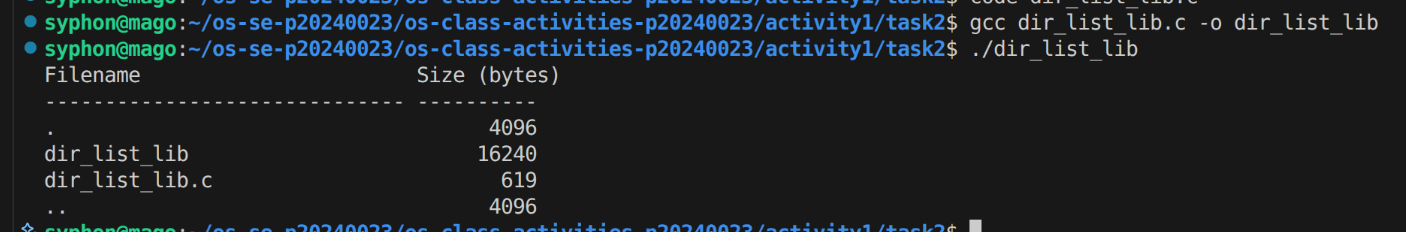
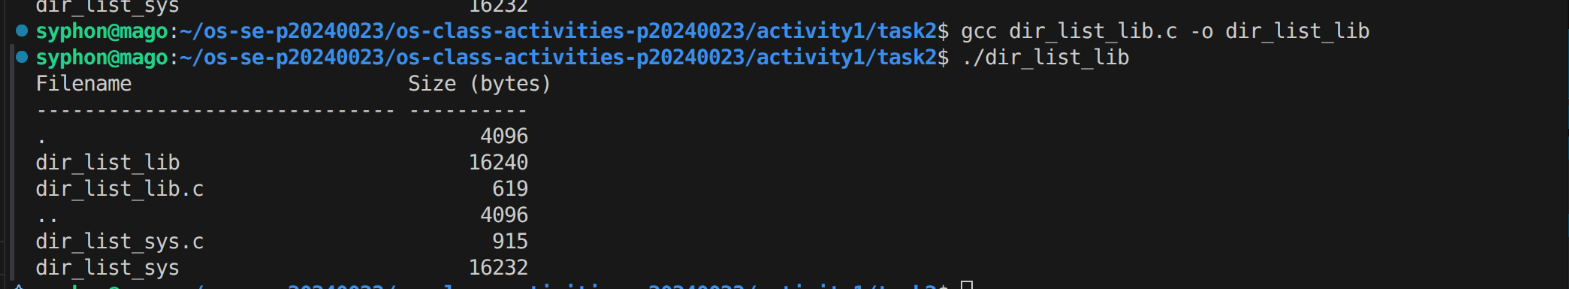
Finish task 2 of activity 1

diff --git a/os-class-activities-p20240023/activity1/task2/dir_list_sys.c b/os-class-activities-p20240023/activity1/task2/dir_list_sys.c
@@ -6,6 +6,7 @@
 #include <stdio.h>
 
 int main() {
+    char buffer[512];
     DIR *dir = opendir(".");
     if (dir == NULL) {
         const char *errorMsg = "Error opening directory";
@@ -14,6 +15,17 @@ int main() {
 
     struct dirent *entry;
     struct stat fileStat;
-    char buffer[256];
-    snprintf(buffer, sizeof(buffer), "%-30s %10ld\n", "Filename", "Size (bytes)");
+    int len = snprintf(buffer, sizeof(buffer), "%-30s %10s\n", "Filename", "Size (bytes)");
+    write(1, buffer,len);
+
+    len = snprintf(buffer, sizeof(buffer), "%-30s %10s\n", "------------------------------", "----------");
+    write(1, buffer, len);
+    // or strlen of the buffer varia
+
+    while ((entry = readdir(dir)) != NULL) {
+        if (stat(entry->d_name, &fileStat) == 0) {
+            int len = snprintf(buffer, sizeof(buffer), "%-30s %10ld\n", entry->d_name, fileStat.st_size);
+            write(1, buffer, len);
+        }
+    }
 }

diff --git a/os-class-activities-p20240023/activity1/README.md b/os-class-activities-p20240023/activity1/README.md
@@ -99,15 +99,15 @@ Screenshot of running `copyfilesyscall.c` on Linux:
 
 1. **What struct does `readdir()` return? What fields does it contain?**
 
-   > [Your answer]
+   > return a pointer to struct dir entry which contains: d_ino, d_off, d_reclen, d_type, d_name\[\]
 
 2. **What information does `stat()` provide beyond file size?**
 
-   > [Your answer]
+   > return struct stat with data: permission, inode number, device id, hard link count, owner UID and GID, file size in bytes, block size and count, access time modifier, change time
 
 3. **Why can't you `write()` a number directly — why do you need `snprintf()` first?**
 
-   > [Your answer]
+   > write operates on raw bytes that's why we need snprintf to convert numbers to its string representation
 
 ---
 
